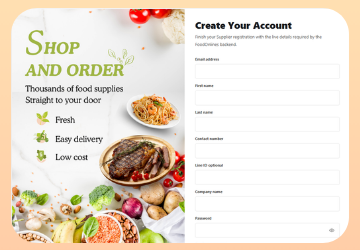
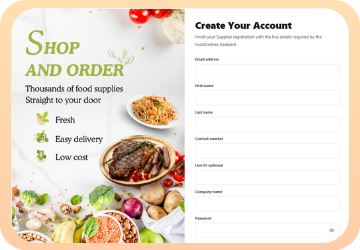
Fix 3-step card images transparency

diff --git a/design.md b/design.md
@@ -842,6 +842,7 @@
 - How It Works responsive image behavior: desktop keeps three columns with number badge, title, body, image below, and dashed vertical dividers; tablet/mobile-desktop reduce visual height while keeping the three-step structure where space allows. Mobile portrait keeps Step 1 as the larger stacked feature block, with the Step 1 image coming down below the text and the black `Join and earn` CTA below the image; Steps 2 and 3 remain compact cards with text on the left and their images controlled on the right at a fixed percentage column.
 - How It Works image URL fix on 2026-06-11: the step image `src` values now use the Vite `import.meta.env.BASE_URL` prefix so the same copied assets from `pages/affillate page` resolve correctly on local root builds and production subpath builds instead of falling back to broken-image alt text.
 - Three-step image-card layout fix on 2026-06-11: the How It Works image cards now use visual-only cropped assets from `pages/affillate page` and a single shared large card frame for all three steps. The external number/title/body remain above each card only; duplicated card-internal step labels/body copy are removed. Desktop, tablet, mobile-desktop, and mobile portrait use the same card dimensions, radius, padding logic, gradient background, border, and contain-fit image behavior for Boxes 1, 2, and 3, with the prior mobile white outer wrapper panels removed.
+- Three-step asset transparency fix on 2026-06-11: the current visual-only PNGs for the How It Works cards have transparent backgrounds so the existing card gradient/background is the only visible backdrop. No card CSS, sizing, radius, spacing, typography, or responsive structure changed; only the baked peach/brown pixels in the image assets were removed.
 
 ## Guardrails
 

diff --git a/AGENT.md b/AGENT.md
@@ -1402,3 +1402,16 @@
 - Normalized all three image boxes to the same shared visual-card structure, dimensions, border radius, border, gradient background, padding, shadow, and responsive sizing. Box 2 and Box 3 now match Box 1 instead of using the old compact mobile/right-side sizing.
 - Removed the mobile-only white outer article panels behind the cards so the image card itself is the main visible box. The external number/title/body remain outside the image card for each step.
 - Checks on 2026-06-11: `cmd /c npx tsc --noEmit`, `cmd /c npm run build`, and `git diff --check`.
+
+## Affiliate Three-Step Image Transparency Fix (2026-06-11)
+
+- Files changed:
+  - `public/images/affiliate/how-it-works/create-account-visual.png`
+  - `public/images/affiliate/how-it-works/share-visual.png`
+  - `public/images/affiliate/how-it-works/get-started-visual.png`
+  - `AGENT.md`
+  - `design.md`
+- Updated only the three current How It Works image assets. No card/container CSS, layout, spacing, sizing, border radius, typography, header, footer, Affiliate Hero + Stats, or Affiliate Rewards / Referral Cards code was changed.
+- Removed the baked peach/brown background from the current visual PNGs so the existing card background shows through naturally. Step 1 now uses a rounded alpha mask around the signup preview, while Step 2 and Step 3 use transparent background-connected pixels around the social/share and money-bag visuals.
+- Verified the assets have alpha transparency and composited them on a bright test background to confirm the old rectangular fill is removed from the image files.
+- Checks on 2026-06-11: `cmd /c npx tsc --noEmit`, `cmd /c npm run build`, and `git diff --check`.
